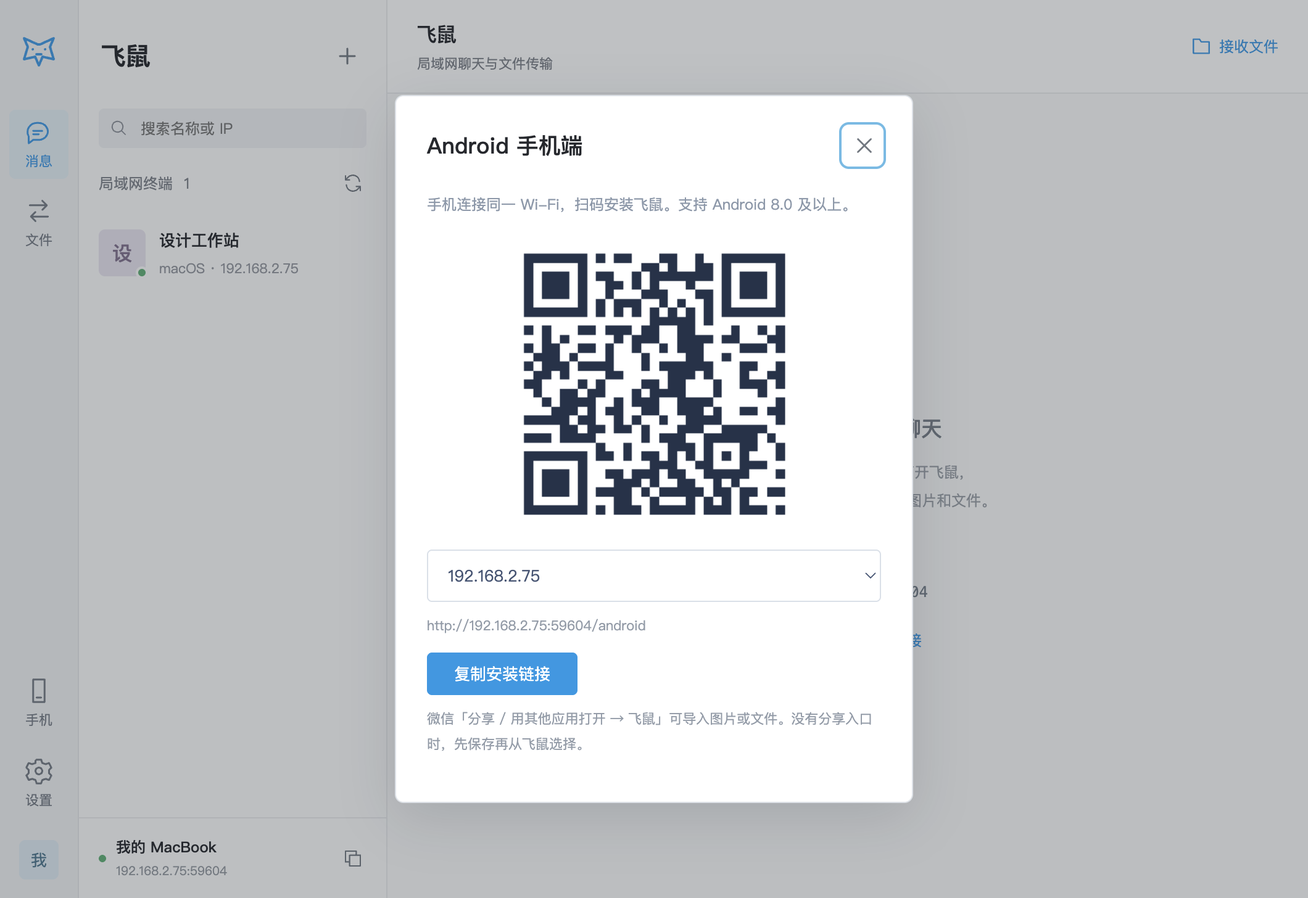
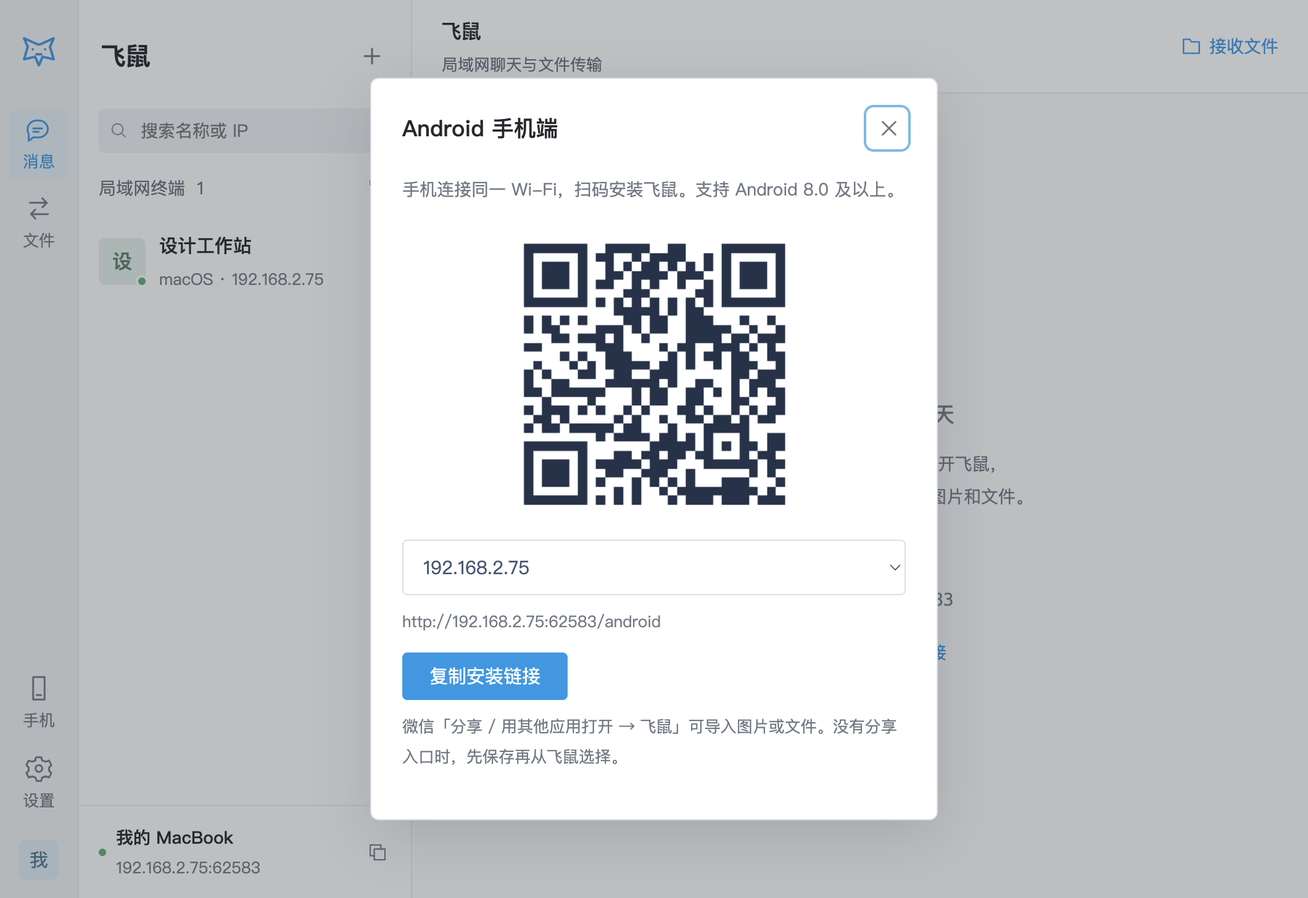
fix: improve text sizes and contrast across desktop and Android

diff --git a/src/ui/style.css b/src/ui/style.css
@@ -1,9 +1,12 @@
-:root{--blue:#0099e6;--blue-dark:#0084c8;--ink:#25282d;--muted:#7c818a;--line:#e5e6e8;--surface:#f5f5f5;--green:#41ad71;--font:"PingFang SC","Microsoft YaHei","Segoe UI",sans-serif}
-*{box-sizing:border-box}body{margin:0;color:var(--ink);font:14px var(--font);background:#fff}button,input,textarea,select{font:inherit}button{cursor:pointer;border:0;background:none;color:inherit}button:disabled{cursor:not-allowed;opacity:.45}button,input,textarea{outline:none}button:focus-visible,input:focus-visible,textarea:focus-visible,select:focus-visible{outline:2px solid #66bce7;outline-offset:2px}svg{width:21px;height:21px;display:block;stroke-width:1.65}[hidden]{display:none!important}
-.app{display:grid;grid-template-columns:64px 250px minmax(0,1fr);height:100vh;min-height:560px}.rail{background:#ebedef;display:flex;align-items:center;flex-direction:column;padding:23px 6px 15px;gap:8px;border-right:1px solid #e0e2e5}.brand-mark{color:var(--blue);width:38px;height:38px;display:grid;place-items:center;margin:0 0 20px}.brand-mark svg{width:32px;height:32px}.nav-item{width:48px;height:56px;display:flex;flex-direction:column;align-items:center;justify-content:center;gap:5px;color:#727a84;border-radius:5px;position:relative}.nav-item svg{width:22px;height:22px}.nav-item small{font-size:11px}.nav-item.active{color:var(--blue);background:#dceaf1}.nav-item:hover{background:#dfe3e7}.nav-item b{position:absolute;right:1px;top:2px;background:#e85d5d;color:#fff;border-radius:9px;min-width:15px;font-size:10px;padding:1px 4px}.rail-bottom{margin-top:auto;display:flex;flex-direction:column;align-items:center;gap:9px}.self-avatar{width:32px;height:32px;background:#d8e7ef;color:#42768e;border-radius:5px;font-size:13px;margin-top:9px}
-.devices{border-right:1px solid var(--line);display:flex;flex-direction:column;background:#f7f7f7;min-width:0}.devices-heading{display:flex;align-items:center;justify-content:space-between;height:76px;padding:15px 18px 0}h1{font-size:20px;margin:0;font-weight:600}.icon-button{width:30px;height:30px;display:grid;place-items:center;border-radius:4px;color:#6f7780}.icon-button:hover{background:#e5e8ec;color:var(--blue)}.icon-button.small{width:25px;height:25px}.icon-button.small svg{width:16px;height:16px}.search{height:32px;display:flex;align-items:center;margin:12px 16px 16px;background:#eaecee;border-radius:4px;padding:0 9px;gap:8px;color:#8a8f98}.search svg{width:15px;height:15px}.search input{width:100%;border:0;background:transparent;min-width:0;font-size:12px;color:#4a5058}.section-label{display:flex;align-items:center;justify-content:space-between;padding:0 16px 8px;color:var(--muted);font-size:12px}.section-label b{font-weight:400;margin-left:5px}.peer-list{flex:1;overflow:auto}.peer{display:flex;align-items:center;gap:11px;width:100%;text-align:left;padding:15px 16px;min-height:72px}.peer:hover{background:#eceff1}.peer.selected{background:#dfe7eb}.avatar{width:38px;height:38px;flex-shrink:0;display:grid;place-items:center;border-radius:5px;background:#d8eaf3;color:#417c9b;position:relative;font-weight:500;font-size:16px}.avatar.tone1{background:#dcebe5;color:#527f6c}.avatar.tone2{background:#eee5d6;color:#9b7c48}.avatar.tone3{background:#e5e0eb;color:#82708e}.avatar .online-dot{position:absolute;bottom:-2px;right:-2px;border:2px solid #f7f7f7;width:10px;height:10px}.avatar .offline-dot{background:#b4bac2}.peer-info{flex:1;min-width:0}.peer-name{font-size:13px;font-weight:500;display:block;white-space:nowrap;text-overflow:ellipsis;overflow:hidden}.peer-sub{font-size:11px;color:#92969e;margin-top:6px;display:block;white-space:nowrap;overflow:hidden;text-overflow:ellipsis}.peer-tail{font-size:10px;color:#989da5;align-self:flex-start;margin-top:2px}.peer .unread{background:#e85d5d;color:#fff;font-size:10px;border-radius:9px;padding:1px 5px}.peer-empty{text-align:center;color:#8c929b;padding:42px 16px}.peer-empty svg{width:28px;height:28px;margin:0 auto 15px;color:#abb2ba}.peer-empty p{font-size:12px}.peer-empty small{font-size:11px;line-height:1.8;display:block}.my-device{display:flex;align-items:center;gap:8px;border-top:1px solid var(--line);padding:15px 16px}.my-device>div{flex:1;min-width:0}.my-device strong{display:block;font-size:12px;font-weight:500;white-space:nowrap;overflow:hidden;text-overflow:ellipsis}.my-device small{display:block;font-size:10px;color:#9298a0;margin-top:4px;white-space:nowrap;overflow:hidden;text-overflow:ellipsis}.online-dot{display:inline-block;width:6px;height:6px;border-radius:50%;background:var(--green);flex-shrink:0}
-.workspace{display:flex;flex-direction:column;min-width:0;position:relative;overflow:hidden;background:#f5f5f5}.workspace-header{height:76px;flex-shrink:0;border-bottom:1px solid var(--line);padding:16px 24px;display:flex;align-items:center;justify-content:space-between;gap:16px;background:#fafafa}h2{font-size:16px;margin:0;font-weight:500}.workspace-header p{font-size:11px;color:var(--muted);margin:5px 0 0}.workspace-header h2{white-space:nowrap;overflow:hidden;text-overflow:ellipsis;max-width:400px}.welcome{flex:1;display:grid;place-items:center;padding:35px;overflow:auto}.welcome-content{text-align:center;max-width:430px}.welcome-icon{display:grid;place-items:center;color:#b5bdc4;margin-bottom:22px}.welcome-icon svg{width:42px;height:42px;stroke-width:1.2}.welcome h2{font-size:17px;color:#747c86}.welcome p{color:#979da5;line-height:1.9;font-size:12px}.connection-card{margin:30px 0 14px;color:#8c939d;font-size:11px}.connection-card p{font-size:12px;color:#737e89;font-family:"SFMono-Regular",Consolas,monospace;margin:7px 0;overflow-wrap:anywhere}.text-button{color:var(--blue);font-size:12px;display:inline-flex;align-items:center;gap:6px;white-space:nowrap;padding:5px 0}.text-button:hover{color:var(--blue-dark)}.text-button svg{width:17px;height:17px}.chat{display:flex;flex-direction:column;flex:1;min-height:0}.timeline{flex:1;overflow:auto;padding:18px 25px}.chat-intro{text-align:center;padding:70px 20px;color:#929aa3}.chat-intro .avatar{margin:0 auto 15px;width:48px;height:48px;font-size:20px}.chat-intro strong{font-size:13px;font-weight:400;color:#78818c}.chat-intro p{font-size:12px;line-height:1.9}.day-separator{text-align:center;color:#a1a6ac;font-size:11px;margin:8px 0 24px}.message-row{display:flex;gap:10px;margin-bottom:22px;align-items:flex-start}.message-row.outgoing{flex-direction:row-reverse}.message-row>.avatar{width:34px;height:34px;font-size:13px}.message-content{min-width:0;max-width:80%}.message-meta{font-size:10px;color:#9299a2;margin:0 0 7px;display:flex;gap:9px}.outgoing .message-meta{justify-content:flex-end}.bubble{background:#fff;border:1px solid #e9eaec;border-radius:5px;padding:9px 12px;font-size:14px;line-height:1.65;white-space:pre-wrap;overflow-wrap:anywhere;user-select:text}.outgoing .bubble{background:#d9effb;border-color:#cce7f5;color:#213e50}.composer{border-top:1px solid var(--line);padding:10px 20px 13px;background:#fff;flex-shrink:0}.composer-tools{display:flex;gap:20px;align-items:center}.tool-button{font-size:12px;color:#777f88;display:flex;align-items:center;gap:6px;padding:5px 0}.tool-button:hover{color:var(--blue)}.tool-button svg{width:19px;height:19px}.composer textarea{display:block;width:100%;height:82px;resize:none;border:0;background:transparent;margin-top:4px;font-size:14px;color:#303840;line-height:1.7;padding:5px 0}.composer textarea::placeholder{color:#b0b4bb}.composer-footer{display:flex;align-items:center;justify-content:space-between}.composer-footer small{font-size:10px;color:#a5abb2}.primary-button{display:inline-flex;justify-content:center;align-items:center;gap:8px;background:var(--blue);color:#fff;border-radius:4px;font-size:13px;padding:8px 22px;min-height:32px}.primary-button:hover{background:var(--blue-dark)}.secondary-button{padding:8px 20px;border:1px solid #dce0e5;border-radius:4px;color:#727d8b;font-size:13px}.secondary-button:hover{background:#f1f3f5}
-.image-drafts{display:flex;gap:10px;padding:10px 0 4px;overflow:auto;max-height:123px}.image-draft{position:relative;border:1px solid #dce1e6;border-radius:4px;background:#f6f7f8;padding:5px;flex:none}.image-draft img{display:block;width:100px;height:70px;object-fit:contain}.image-draft small{font-size:10px;color:#8b949f;display:block;margin-top:3px}.image-draft button{position:absolute;top:2px;right:2px;background:#fff;border:1px solid #dce1e6;border-radius:3px;width:22px;height:22px;display:grid;place-items:center}.image-draft button svg{width:12px;height:12px}.sent-image{display:block;width:100%;height:180px;object-fit:contain;margin:0 0 10px;border-radius:3px}.transfer-card{border:1px solid #e1e4e8;background:#fff;border-radius:5px;padding:13px;margin:0 0 10px;overflow:hidden}.transfer-card-top{display:flex;gap:10px;align-items:center}.file-icon{height:35px;width:31px;flex-shrink:0;display:grid;place-items:center;color:#70a3c2}.file-icon.folder{color:#cba35c}.transfer-info{flex:1;min-width:0}.transfer-name{font-size:12px;font-weight:500;overflow:hidden;text-overflow:ellipsis;white-space:nowrap}.transfer-details{font-size:10px;color:#929ba6;margin-top:5px}.transfer-card progress{width:100%;display:block;height:4px;border:0;border-radius:3px;overflow:hidden;margin:13px 0 9px;background:#edf0f3;appearance:none}.transfer-card progress::-webkit-progress-bar{background:#edf0f3}.transfer-card progress::-webkit-progress-value{background:var(--blue)}.transfer-card.completed progress::-webkit-progress-value{background:#68b28d}.transfer-progress-meta{display:flex;align-items:center;justify-content:space-between;font-size:10px;color:#929ba6;gap:10px}.transfer-progress-meta strong{font-weight:400;color:#6291ad}.transfer-file{font-size:10px;color:#9aa3af;white-space:nowrap;text-overflow:ellipsis;overflow:hidden;margin-top:7px}.transfer-actions{display:flex;gap:8px;margin-top:10px}.transfer-actions:empty{display:none}.transfer-actions button{padding:5px 9px;border-radius:3px;font-size:11px;border:1px solid #dfe4ea;color:#72859b}.transfer-actions .accept{background:var(--blue);color:#fff;border-color:var(--blue);flex:1}.transfer-error{color:#b66057;font-size:11px;overflow-wrap:anywhere;margin-top:9px;line-height:1.7}.timeline .transfer-card{width:285px;max-width:100%;margin-bottom:0}.transfer-view{flex:1;overflow:auto;padding:24px;background:#fafafa}.transfer-summary{display:flex;gap:35px;padding-bottom:20px;border-bottom:1px solid var(--line)}.summary-cell span{display:block;color:#929ba6;font-size:11px}.summary-cell strong{font-size:20px;font-weight:400;display:block;margin-top:8px}.summary-cell strong.blue{color:var(--blue)}.filter-row{display:flex;gap:24px;align-items:center;margin:15px 0}.filter{font-size:12px;padding:8px 0;color:#929ba6}.filter.active{color:var(--blue);border-bottom:2px solid var(--blue)}.transfer-history .transfer-card{padding:17px}.transfer-history .transfer-actions{justify-content:flex-end}.transfer-history .transfer-actions .accept{flex:0}.activity-empty{text-align:center;padding:60px 15px;color:#9da5af}.activity-empty .empty-icon{display:block;margin:0 auto 20px;width:32px;color:#b7c1cd}.activity-empty strong{font-size:13px;font-weight:400}.activity-empty p{font-size:12px;line-height:1.9}.warning{background:#fff4dd;color:#a58143;font-size:12px;padding:9px 24px;line-height:1.8}
-.drop-overlay{position:fixed;inset:10px;border:2px dashed #64b9e4;border-radius:6px;background:#eff8fff5;z-index:50;display:flex;flex-direction:column;align-items:center;justify-content:center;pointer-events:none;color:var(--blue)}.drop-overlay>span svg{width:45px;height:45px;margin-bottom:22px}.drop-overlay h2{font-size:20px}.drop-overlay p{color:#889eae;font-size:13px}dialog{border:1px solid #dce1e7;padding:25px;border-radius:7px;width:420px;box-shadow:0 12px 45px #15233522;color:var(--ink)}dialog::backdrop{background:#20283245}.dialog-heading{display:flex;justify-content:space-between;align-items:center;margin-bottom:22px}.dialog-heading h2{font-size:18px}dialog label{font-size:12px;color:#677589;display:block;margin:20px 0 9px}dialog input,dialog select{border:1px solid #d9e0e9;border-radius:4px;padding:10px 12px;width:100%;font-size:13px;color:#435575;background:#fff}.field-note{color:#929ca9;font-size:11px;line-height:1.9;margin-top:9px}.directory-field{background:#f5f6f8;display:flex;align-items:center;gap:10px;border-radius:4px;padding:11px;color:#798ba0;font-size:12px}.directory-field>span{flex:1;overflow-wrap:anywhere}.settings-info{margin-top:20px;border-top:1px solid var(--line);padding-top:10px}.settings-info p{font-size:11px;color:#929eae;line-height:1.9}.dialog-actions{display:flex;justify-content:flex-end;gap:10px;margin-top:24px}.dialog-intro{font-size:12px;color:#8a98aa;line-height:1.8}.toast{position:fixed;bottom:25px;left:50%;transform:translateX(-50%);background:#36414c;color:#fff;border-radius:5px;max-width:75vw;z-index:100;font-size:12px;padding:11px 20px;line-height:1.7;overflow-wrap:anywhere}.toast.error{background:#aa5d58}.android-qr{display:grid;place-items:center;min-height:245px;margin:12px 0}.android-qr img{max-width:100%;height:auto}#androidURL{overflow-wrap:anywhere}::-webkit-scrollbar{width:6px;height:6px}::-webkit-scrollbar-thumb{background:#cfd3d9;border-radius:4px}::-webkit-scrollbar-track{background:transparent}@media(max-width:900px){.app{grid-template-columns:58px 210px minmax(0,1fr)}.rail{padding-left:3px;padding-right:3px}.workspace-header{padding:14px 20px}.workspace-header h2{max-width:230px}.timeline{padding:16px}.message-content{max-width:85%}.composer{padding:10px 16px}.composer-footer small{font-size:9px}}
+:root{--blue:#0099e6;--blue-dark:#0084c8;--ink:#25282d;--muted:#69727e;--line:#e5e6e8;--surface:#f5f5f5;--green:#41ad71;--font:"PingFang SC","Microsoft YaHei","Segoe UI",sans-serif}
+*{box-sizing:border-box}body{margin:0;color:var(--ink);font:16px/1.5 var(--font);background:#fff}button,input,textarea,select{font:inherit}button{cursor:pointer;border:0;background:none;color:inherit}button:disabled{cursor:not-allowed;opacity:.45}button,input,textarea{outline:none}button:focus-visible,input:focus-visible,textarea:focus-visible,select:focus-visible{outline:2px solid #66bce7;outline-offset:2px}svg{width:21px;height:21px;display:block;stroke-width:1.65}[hidden]{display:none!important}
+.app{display:grid;grid-template-columns:64px 270px minmax(0,1fr);height:100vh;min-height:560px}.rail{background:#ebedef;display:flex;align-items:center;flex-direction:column;padding:23px 6px 15px;gap:8px;border-right:1px solid #e0e2e5}.brand-mark{color:var(--blue);width:38px;height:38px;display:grid;place-items:center;margin:0 0 20px}.brand-mark svg{width:32px;height:32px}.nav-item{width:48px;height:56px;display:flex;flex-direction:column;align-items:center;justify-content:center;gap:5px;color:#727a84;border-radius:5px;position:relative}.nav-item svg{width:22px;height:22px}.nav-item small{font-size:13px}.nav-item.active{color:var(--blue);background:#dceaf1}.nav-item:hover{background:#dfe3e7}.nav-item b{position:absolute;right:1px;top:2px;background:#e85d5d;color:#fff;border-radius:9px;min-width:15px;font-size:12px;padding:1px 4px}.rail-bottom{margin-top:auto;display:flex;flex-direction:column;align-items:center;gap:9px}.self-avatar{width:32px;height:32px;background:#d8e7ef;color:#42768e;border-radius:5px;font-size:15px;margin-top:9px}
+.devices{border-right:1px solid var(--line);display:flex;flex-direction:column;background:#f7f7f7;min-width:0}.devices-heading{display:flex;align-items:center;justify-content:space-between;height:76px;padding:15px 18px 0}h1{font-size:20px;margin:0;font-weight:600}.icon-button{width:30px;height:30px;display:grid;place-items:center;border-radius:4px;color:#6f7780}.icon-button:hover{background:#e5e8ec;color:var(--blue)}.icon-button.small{width:25px;height:25px}.icon-button.small svg{width:16px;height:16px}.search{height:36px;display:flex;align-items:center;margin:12px 16px 16px;background:#eaecee;border-radius:4px;padding:0 9px;gap:8px;color:#8a8f98}.search svg{width:15px;height:15px}.search input{width:100%;border:0;background:transparent;min-width:0;font-size:14px;color:#4a5058}.section-label{display:flex;align-items:center;justify-content:space-between;padding:0 16px 8px;color:var(--muted);font-size:14px}.section-label b{font-weight:400;margin-left:5px}.peer-list{flex:1;overflow:auto}.peer{display:flex;align-items:center;gap:11px;width:100%;text-align:left;padding:15px 16px;min-height:78px}.peer:hover{background:#eceff1}.peer.selected{background:#dfe7eb}.avatar{width:38px;height:38px;flex-shrink:0;display:grid;place-items:center;border-radius:5px;background:#d8eaf3;color:#417c9b;position:relative;font-weight:500;font-size:16px}.avatar.tone1{background:#dcebe5;color:#527f6c}.avatar.tone2{background:#eee5d6;color:#9b7c48}.avatar.tone3{background:#e5e0eb;color:#82708e}.avatar .online-dot{position:absolute;bottom:-2px;right:-2px;border:2px solid #f7f7f7;width:10px;height:10px}.avatar .offline-dot{background:#b4bac2}.peer-info{flex:1;min-width:0}.peer-name{font-size:15px;font-weight:500;display:block;white-space:nowrap;text-overflow:ellipsis;overflow:hidden}.peer-sub{font-size:13px;color:#707985;margin-top:6px;display:block;white-space:nowrap;overflow:hidden;text-overflow:ellipsis}.peer-tail{font-size:12px;color:#707985;align-self:flex-start;margin-top:2px}.peer .unread{background:#e85d5d;color:#fff;font-size:12px;border-radius:9px;padding:1px 5px}.peer-empty{text-align:center;color:#8c929b;padding:42px 16px}.peer-empty svg{width:28px;height:28px;margin:0 auto 15px;color:#abb2ba}.peer-empty p{font-size:14px}.peer-empty small{font-size:13px;line-height:1.8;display:block}.my-device{display:flex;align-items:center;gap:8px;border-top:1px solid var(--line);padding:15px 16px}.my-device>div{flex:1;min-width:0}.my-device strong{display:block;font-size:14px;font-weight:500;white-space:nowrap;overflow:hidden;text-overflow:ellipsis}.my-device small{display:block;font-size:13px;color:#707985;margin-top:4px;white-space:nowrap;overflow:hidden;text-overflow:ellipsis}.online-dot{display:inline-block;width:6px;height:6px;border-radius:50%;background:var(--green);flex-shrink:0}
+.workspace{display:flex;flex-direction:column;min-width:0;position:relative;overflow:hidden;background:#f5f5f5}.workspace-header{height:76px;flex-shrink:0;border-bottom:1px solid var(--line);padding:16px 24px;display:flex;align-items:center;justify-content:space-between;gap:16px;background:#fafafa}h2{font-size:16px;margin:0;font-weight:500}.workspace-header p{font-size:13px;color:var(--muted);margin:5px 0 0}.workspace-header h2{white-space:nowrap;overflow:hidden;text-overflow:ellipsis;max-width:400px}.welcome{flex:1;display:grid;place-items:center;padding:35px;overflow:auto}.welcome-content{text-align:center;max-width:430px}.welcome-icon{display:grid;place-items:center;color:#b5bdc4;margin-bottom:22px}.welcome-icon svg{width:42px;height:42px;stroke-width:1.2}.welcome h2{font-size:17px;color:#747c86}.welcome p{color:#707985;line-height:1.9;font-size:14px}.connection-card{margin:30px 0 14px;color:#707985;font-size:13px}.connection-card p{font-size:14px;color:#737e89;font-family:"SFMono-Regular",Consolas,monospace;margin:7px 0;overflow-wrap:anywhere}.text-button{color:var(--blue);font-size:14px;display:inline-flex;align-items:center;gap:6px;white-space:nowrap;padding:5px 0}.text-button:hover{color:var(--blue-dark)}.text-button svg{width:17px;height:17px}.chat{display:flex;flex-direction:column;flex:1;min-height:0}.timeline{flex:1;overflow:auto;padding:18px 25px}.chat-intro{text-align:center;padding:70px 20px;color:#929aa3}.chat-intro .avatar{margin:0 auto 15px;width:48px;height:48px;font-size:20px}.chat-intro strong{font-size:15px;font-weight:400;color:#78818c}.chat-intro p{font-size:14px;line-height:1.9}.day-separator{text-align:center;color:#707985;font-size:13px;margin:8px 0 24px}.message-row{display:flex;gap:10px;margin-bottom:22px;align-items:flex-start}.message-row.outgoing{flex-direction:row-reverse}.message-row>.avatar{width:34px;height:34px;font-size:15px}.message-content{min-width:0;max-width:80%}.message-meta{font-size:12px;color:#707985;margin:0 0 7px;display:flex;gap:9px}.outgoing .message-meta{justify-content:flex-end}.bubble{background:#fff;border:1px solid #e9eaec;border-radius:5px;padding:9px 12px;font-size:16px;line-height:1.65;white-space:pre-wrap;overflow-wrap:anywhere;user-select:text}.outgoing .bubble{background:#d9effb;border-color:#cce7f5;color:#213e50}.composer{border-top:1px solid var(--line);padding:10px 20px 13px;background:#fff;flex-shrink:0}.composer-tools{display:flex;gap:20px;align-items:center}.tool-button{font-size:14px;color:#777f88;display:flex;align-items:center;gap:6px;padding:5px 0}.tool-button:hover{color:var(--blue)}.tool-button svg{width:19px;height:19px}.composer textarea{display:block;width:100%;height:82px;resize:none;border:0;background:transparent;margin-top:4px;font-size:16px;color:#303840;line-height:1.7;padding:5px 0}.composer textarea::placeholder{color:#818a95}.composer-footer{display:flex;align-items:center;justify-content:space-between}.composer-footer small{font-size:12px;color:#77818c}.primary-button{display:inline-flex;justify-content:center;align-items:center;gap:8px;background:var(--blue);color:#fff;border-radius:4px;font-size:15px;padding:8px 22px;min-height:36px}.primary-button:hover{background:var(--blue-dark)}.secondary-button{padding:8px 20px;border:1px solid #dce0e5;border-radius:4px;color:#727d8b;font-size:15px}.secondary-button:hover{background:#f1f3f5}
+.image-drafts{display:flex;gap:10px;padding:10px 0 4px;overflow:auto;max-height:135px}.image-draft{position:relative;border:1px solid #dce1e6;border-radius:4px;background:#f6f7f8;padding:5px;flex:none}.image-draft img{display:block;width:100px;height:70px;object-fit:contain}.image-draft small{font-size:12px;color:#8b949f;display:block;margin-top:3px}.image-draft button{position:absolute;top:2px;right:2px;background:#fff;border:1px solid #dce1e6;border-radius:3px;width:22px;height:22px;display:grid;place-items:center}.image-draft button svg{width:12px;height:12px}.sent-image{display:block;width:100%;height:180px;object-fit:contain;margin:0 0 10px;border-radius:3px}.transfer-card{border:1px solid #e1e4e8;background:#fff;border-radius:5px;padding:13px;margin:0 0 10px;overflow:hidden}.transfer-card-top{display:flex;gap:10px;align-items:center}.file-icon{height:35px;width:31px;flex-shrink:0;display:grid;place-items:center;color:#70a3c2}.file-icon.folder{color:#cba35c}.transfer-info{flex:1;min-width:0}.transfer-name{font-size:14px;font-weight:500;overflow:hidden;text-overflow:ellipsis;white-space:nowrap}.transfer-details{font-size:13px;color:#707985;margin-top:5px}.transfer-card progress{width:100%;display:block;height:4px;border:0;border-radius:3px;overflow:hidden;margin:13px 0 9px;background:#edf0f3;appearance:none}.transfer-card progress::-webkit-progress-bar{background:#edf0f3}.transfer-card progress::-webkit-progress-value{background:var(--blue)}.transfer-card.completed progress::-webkit-progress-value{background:#68b28d}.transfer-progress-meta{display:flex;flex-wrap:wrap;align-items:center;justify-content:space-between;font-size:13px;color:#707985;gap:10px}.transfer-progress-meta strong{font-weight:400;color:#6291ad}.transfer-file{font-size:12px;color:#707985;white-space:nowrap;text-overflow:ellipsis;overflow:hidden;margin-top:7px}.transfer-actions{display:flex;gap:8px;margin-top:10px}.transfer-actions:empty{display:none}.transfer-actions button{padding:5px 9px;border-radius:3px;font-size:13px;border:1px solid #dfe4ea;color:#72859b}.transfer-actions .accept{background:var(--blue);color:#fff;border-color:var(--blue);flex:1}.transfer-error{color:#b66057;font-size:13px;overflow-wrap:anywhere;margin-top:9px;line-height:1.7}.timeline .transfer-card{width:320px;max-width:100%;margin-bottom:0}.transfer-view{flex:1;overflow:auto;padding:24px;background:#fafafa}.transfer-summary{display:flex;gap:35px;padding-bottom:20px;border-bottom:1px solid var(--line)}.summary-cell span{display:block;color:#707985;font-size:13px}.summary-cell strong{font-size:20px;font-weight:400;display:block;margin-top:8px}.summary-cell strong.blue{color:var(--blue)}.filter-row{display:flex;gap:24px;align-items:center;margin:15px 0}.filter{font-size:14px;padding:8px 0;color:#707985}.filter.active{color:var(--blue);border-bottom:2px solid var(--blue)}.transfer-history .transfer-card{padding:17px}.transfer-history .transfer-actions{justify-content:flex-end}.transfer-history .transfer-actions .accept{flex:0}.activity-empty{text-align:center;padding:60px 15px;color:#707985}.activity-empty .empty-icon{display:block;margin:0 auto 20px;width:32px;color:#b7c1cd}.activity-empty strong{font-size:15px;font-weight:400}.activity-empty p{font-size:14px;line-height:1.9}.warning{background:#fff4dd;color:#a58143;font-size:14px;padding:9px 24px;line-height:1.8}
+.drop-overlay{position:fixed;inset:10px;border:2px dashed #64b9e4;border-radius:6px;background:#eff8fff5;z-index:50;display:flex;flex-direction:column;align-items:center;justify-content:center;pointer-events:none;color:var(--blue)}.drop-overlay>span svg{width:45px;height:45px;margin-bottom:22px}.drop-overlay h2{font-size:20px}.drop-overlay p{color:#889eae;font-size:15px}dialog{border:1px solid #dce1e7;padding:25px;border-radius:7px;width:min(460px,calc(100vw - 40px));max-height:calc(100vh - 40px);overflow:auto;box-shadow:0 12px 45px #15233522;color:var(--ink)}dialog::backdrop{background:#20283245}.dialog-heading{display:flex;justify-content:space-between;align-items:center;margin-bottom:22px}.dialog-heading h2{font-size:18px}dialog label{font-size:14px;color:#677589;display:block;margin:20px 0 9px}dialog input,dialog select{border:1px solid #d9e0e9;border-radius:4px;padding:10px 12px;width:100%;font-size:15px;color:#435575;background:#fff}.field-note{color:#707985;font-size:13px;line-height:1.9;margin-top:9px}.directory-field{background:#f5f6f8;display:flex;align-items:center;gap:10px;border-radius:4px;padding:11px;color:#798ba0;font-size:14px}.directory-field>span{flex:1;overflow-wrap:anywhere}.settings-info{margin-top:20px;border-top:1px solid var(--line);padding-top:10px}.settings-info p{font-size:13px;color:#707985;line-height:1.9}.dialog-actions{display:flex;justify-content:flex-end;gap:10px;margin-top:24px}.dialog-intro{font-size:14px;color:#707985;line-height:1.8}.toast{position:fixed;bottom:25px;left:50%;transform:translateX(-50%);background:#36414c;color:#fff;border-radius:5px;max-width:75vw;z-index:100;font-size:14px;padding:11px 20px;line-height:1.7;overflow-wrap:anywhere}.toast.error{background:#aa5d58}.android-qr{display:grid;place-items:center;min-height:245px;margin:12px 0}.android-qr img{max-width:100%;height:auto}#androidURL{overflow-wrap:anywhere}::-webkit-scrollbar{width:6px;height:6px}::-webkit-scrollbar-thumb{background:#cfd3d9;border-radius:4px}::-webkit-scrollbar-track{background:transparent}@media(max-width:900px){.app{grid-template-columns:58px 232px minmax(0,1fr)}.rail{padding-left:3px;padding-right:3px}.workspace-header{padding:14px 20px}.workspace-header h2{max-width:230px}.timeline{padding:16px}.message-content{max-width:85%}.composer{padding:10px 16px}.composer-footer small{font-size:12px}}
 
 .composer textarea:focus-visible{outline:none}.composer:focus-within{border-top-color:#b8d7e8}
+
+/* Keep readable text at narrow widths rather than shrinking it to fit. */
+.composer-footer{gap:12px;flex-wrap:wrap}.composer-footer small{line-height:1.6}.composer-footer .primary-button{margin-left:auto}.transfer-actions{flex-wrap:wrap}.message-meta{flex-wrap:wrap;line-height:1.5}.peer-sub{line-height:1.5}.image-draft small{line-height:1.5}

diff --git a/android/app/src/main/java/local/linx/android/MainActivity.java b/android/app/src/main/java/local/linx/android/MainActivity.java
@@ -17,7 +17,7 @@ import local.linx.android.core.LanEngine;
 import org.json.*;
 
 public final class MainActivity extends Activity {
-  private static final int BLUE = 0xff0099e6, INK = 0xff25282d, MUTED = 0xff7c818a, BG = 0xfff5f5f5;
+  private static final int BLUE = 0xff0099e6, INK = 0xff25282d, MUTED = 0xff68727d, BG = 0xfff5f5f5;
   private static final int PICK = 11, TREE = 12, SAVE = 13;
   private final Handler handler = new Handler(Looper.getMainLooper());
   private LinearLayout body, root, nav, composer;
@@ -160,7 +160,7 @@ public final class MainActivity extends Activity {
         return super.onTextContextMenuItem(id);
       }
     };
-    message.setTextSize(14);
+    message.setTextSize(16);
     message.setSingleLine(false);
     message.setMaxLines(3);
     message.setHint("输入消息…");
@@ -204,7 +204,7 @@ public final class MainActivity extends Activity {
                 renderNav();
                 render();
               });
-      nav.addView(b, new LinearLayout.LayoutParams(0, dp(44), 1));
+      nav.addView(b, new LinearLayout.LayoutParams(0, dp(52), 1));
     }
   }
 
@@ -332,11 +332,11 @@ public final class MainActivity extends Activity {
     space(card, 14);
     LinearLayout buttons = row();
     buttons.addView(
-        button("图片 / 视频", false, () -> pick(true)), new LinearLayout.LayoutParams(0, dp(46), 1));
+        button("图片视频", false, () -> pick(true)), new LinearLayout.LayoutParams(0, dp(52), 1));
     buttons.addView(
-        button("文件", false, () -> pick(false)), new LinearLayout.LayoutParams(0, dp(46), 1));
+        button("文件", false, () -> pick(false)), new LinearLayout.LayoutParams(0, dp(52), 1));
     buttons.addView(
-        button("文件夹", false, this::pickTree), new LinearLayout.LayoutParams(0, dp(46), 1));
+        button("文件夹", false, this::pickTree), new LinearLayout.LayoutParams(0, dp(52), 1));
     card.addView(buttons);
     space(card, 12);
     if (s.status.startsWith("导入失败")) card.addView(text(s.status, 12, 0xffba5b58, false));
@@ -390,7 +390,7 @@ public final class MainActivity extends Activity {
                             }));
               });
       send.setEnabled(!s.importing);
-      actions.addView(send, new LinearLayout.LayoutParams(0, dp(46), 1));
+      actions.addView(send, new LinearLayout.LayoutParams(0, dp(52), 1));
       card.addView(actions);
     }
     if (!s.sharedText.isEmpty()) {
@@ -743,7 +743,7 @@ public final class MainActivity extends Activity {
           text(
               "传输需要保持局域网服务运行。可切回微信，后台通知中可停止服务。部分手机需允许后台运行。\n\n"
                   + "Android 15+ 对数据同步前台服务有后台时限；服务停止后重新打开应用即可。\n\n"
-                  + "版本 1.2.0 · 仅用于可信局域网",
+                  + "版本 1.2.1 · 仅用于可信局域网",
               12,
               MUTED,
               false);
@@ -811,9 +811,10 @@ public final class MainActivity extends Activity {
   private TextView text(String value, int size, int color, boolean bold) {
     TextView v = new TextView(this);
     v.setText(value);
-    v.setTextSize(size);
+    // SP follows Android system font scaling; keep secondary text at least 13sp.
+    v.setTextSize(size <= 11 ? 13 : size <= 13 ? 14 : size == 14 ? 16 : size);
     v.setTextColor(color);
-    v.setLineSpacing(dp(3), 1);
+    v.setLineSpacing(dp(3), 1.08f);
     if (bold) v.setTypeface(Typeface.DEFAULT, Typeface.BOLD);
     return v;
   }
@@ -838,14 +839,14 @@ public final class MainActivity extends Activity {
   private Button button(String value, boolean primary, Runnable action) {
     Button v = new Button(this);
     v.setText(value);
-    v.setTextSize(12);
+    v.setTextSize(15);
     v.setAllCaps(false);
     v.setTextColor(primary ? Color.WHITE : BLUE);
     v.setMinHeight(0);
     v.setMinimumHeight(0);
     v.setMinWidth(0);
     v.setMinimumWidth(0);
-    v.setPadding(dp(12), dp(8), dp(12), dp(8));
+    v.setPadding(dp(8), dp(8), dp(8), dp(8));
     v.setBackground(shape(primary ? BLUE : 0x000099e6, 4));
     v.setOnClickListener(w -> action.run());
     return v;
@@ -853,7 +854,7 @@ public final class MainActivity extends Activity {
 
   private EditText input(String hint) {
     EditText edit = new EditText(this);
-    edit.setTextSize(14);
+    edit.setTextSize(16);
     edit.setSingleLine(true);
     edit.setHint(hint);
     return edit;

diff --git a/README.md b/README.md
@@ -4,6 +4,10 @@
 
 ![飞鼠界面](docs/screenshots/welcome.png)
 
+## 1.2.1：字号与可读性
+
+聊天正文和输入框为 16px，终端名称为 15px，时间为 12px，文件详情/进度为 13px；其余提示与操作通常为 13–15px，窄窗口不再缩小到 9px。加深辅助文字颜色并增加列表宽度、文件卡片和控件空间，继续采用系统中文字体。Android 聊天为 16sp，辅助文字至少 13sp，按钮为 15sp，跟随系统字体缩放。
+
 ## 1.2.0：简洁界面与图片粘贴
 
 - 软件名称由“邻讯”改为“飞鼠”，采用灰白底、蓝色强调的简洁聊天布局，文件进度直接显示在会话中，全部记录集中在「文件」页。
@@ -18,7 +22,7 @@
 
 已增加 Android 8.0+ 原生客户端。手机可接收微信系统分享的单张/多张图片、文件和文字，也可通过系统选择器选取图片、视频、文件或文件夹。支持电脑与手机双向传输、进度、接收确认、聊天和自定义终端名称。
 
-安装 `dist/FlyingMouse-1.2.0-android.apk`，或在电脑端左侧点击「手机」，让同一 Wi-Fi 的手机扫码下载安装。已有电脑端 1.0 也兼容手机端，不强制升级。微信没有系统分享入口时，先保存图片，再从飞鼠选择发送。
+安装 `dist/FlyingMouse-1.2.1-android.apk`，或在电脑端左侧点击「手机」，让同一 Wi-Fi 的手机扫码下载安装。已有电脑端 1.0 也兼容手机端，不强制升级。微信没有系统分享入口时，先保存图片，再从飞鼠选择发送。
 
 [Android 安装、权限、后台运行和构建说明](android/README.md)
 

diff --git a/docs/验证记录.md b/docs/验证记录.md
@@ -43,3 +43,10 @@
 - Windows / Intel Mac 的实际启动和 Windows Ctrl+V、实体 Android 输入法及微信版本尚未现场验证。macOS 无 Developer ID 和公证，Windows 无 Authenticode 签名；当前仍只适合可信局域网明文传输。
 - 最终 Mac arm64 打包应用再次通过聊天、文件夹收发与扫码安装页回归；两个最终 DMG 均通过镜像校验、挂载后内部应用严格签名校验和架构检查。三种桌面包内业务源码及内置新版 APK 与工作区逐字节一致。
 - 隔离资料目录中的真实 Electron 更名升级测试通过：沿用原邻讯目录，设备 ID、终端名、历史消息及原接收位置保留。Android 模拟器成功从正式签名邻讯 1.1.0 覆盖升级为飞鼠 1.2.0 并启动。
+
+## 1.2.1 字体可读性（2026-10-22）
+
+- 桌面正文/输入 16px、列表名称 15px、消息时间 12px、进度 13px；其余界面字号不低于 12px。窄窗口不再把发送提示缩到 9px；辅助文字对比度加深。
+- 真实 Electron 界面及原生剪贴板发送回归通过；在 780×600 最小窗口核对无横向溢出、发送按钮可见，并检查聊天、图片预览、传输和设置对话框截图。
+- Android 辅助文字最低 13sp、正文 16sp、按钮 15sp，操作行增加到 52dp。发行 APK 编译/签名校验通过，versionCode 为 3；Android 15 模拟器检查标准字体及 1.3 倍系统字体下的排版。
+- 未改动通信协议与传输逻辑。Windows 与 Intel Mac 未做实体设备上的字体显示验收，仍需目标设备验证。

diff --git a/android/README.md b/android/README.md
@@ -1,10 +1,10 @@
-# 飞鼠 Android 1.2.0
+# 飞鼠 Android 1.2.1
 
 Android 8.0（API 26）及以上的原生客户端，与现有飞鼠 Mac / Windows 1.0 协议兼容。
 
 ## 安装和使用
 
-- 安装包：项目 `dist/FlyingMouse-1.2.0-android.apk`。
+- 安装包：项目 `dist/FlyingMouse-1.2.1-android.apk`。
 - 电脑端左侧「手机」显示安装二维码。手机与电脑连接同一 Wi-Fi，扫码进入电脑提供的本地安装页，下载 APK 后按系统提示允许安装。微信扫码若无法下载，请选择「在浏览器打开」。页面显示 APK SHA-256，可与 `dist/SHA256SUMS.txt` 核对。
 - 手机端和电脑端都打开飞鼠，选择发现的终端。自动发现受限时，输入电脑首页的 IPv4 和端口。
 - 微信里打开图片或文件，选择「分享 / 用其他应用打开 → 飞鼠」。不同版本微信的入口可能不同；没有系统分享入口时，先保存到相册/文件，再从飞鼠选择。
